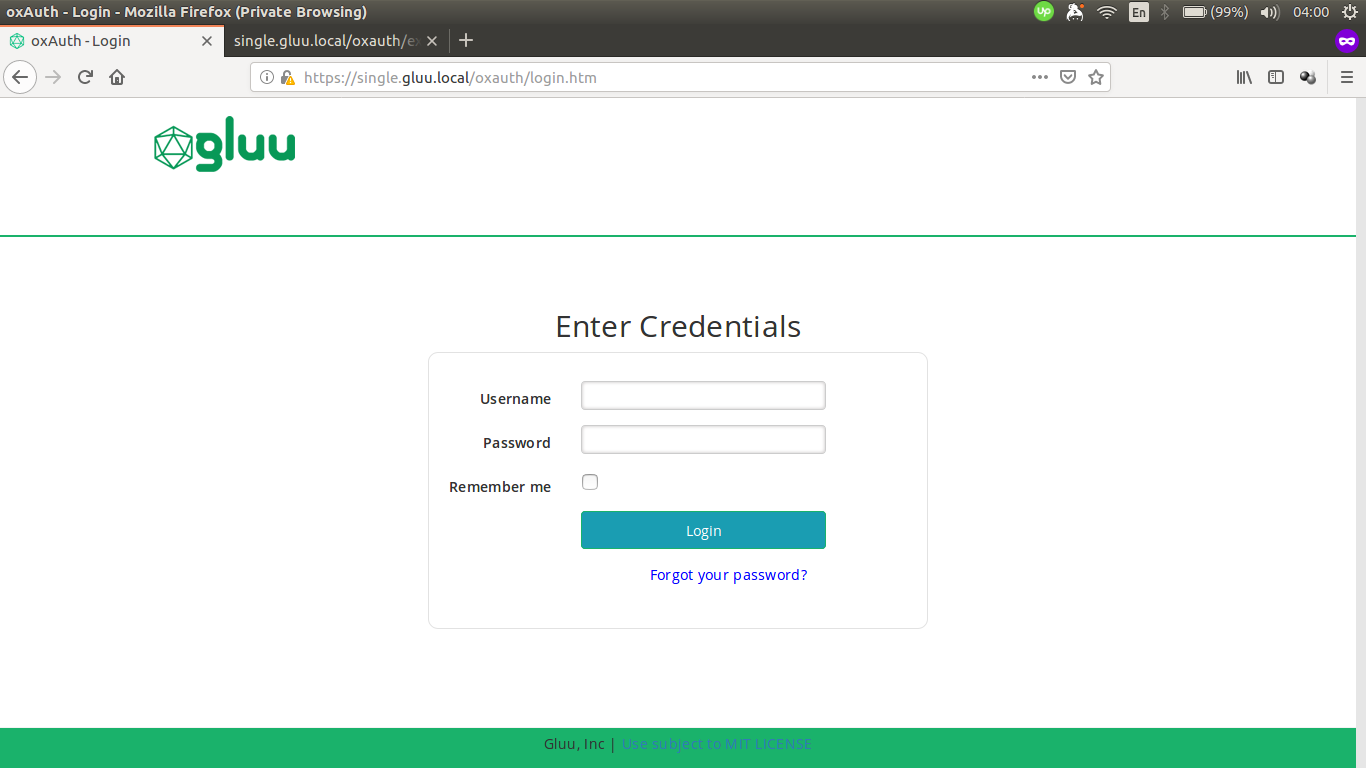
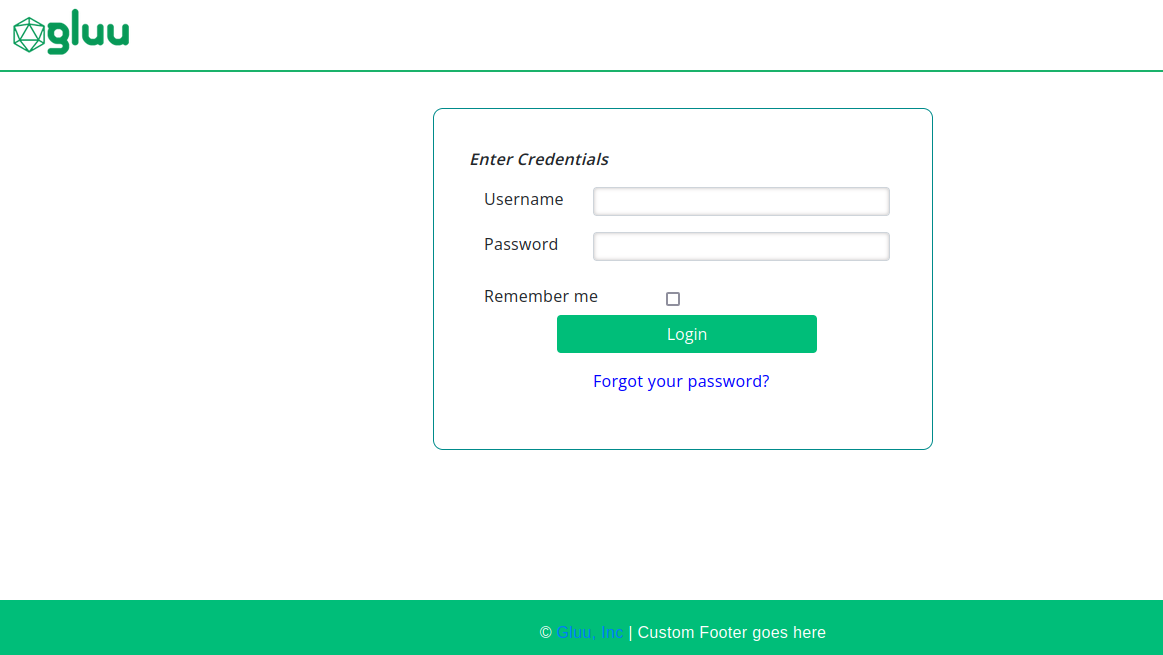
docs: update custom pages example for cloud-native

diff --git a/docs/source/operation/custom-design.md b/docs/source/operation/custom-design.md
@@ -238,64 +238,116 @@ cp /opt/jetty-9.3/temp/jetty-localhost-8081-oxauth.war-_oxauth-any-9071517269463
 
 This guide will show how to customize HTML pages and CSS in oxAuth for Gluu Server cloud native edition.
 
-Here's the screenshot of the default oxAuth login page.
+As an example, we're going to:
 
-![Screenshot](../img/kubernetes/oxauth-default-login.png)
+1. add text to the top of the login form (and apply styling)
+1. add text in the footer
 
-As an example, add text to the top of the form and change the color of the button by following these steps:
+### Preparing custom files for oxAuth
+
+!!! Note
+
+    The pod namespace and name is set to `gluu` and `oxauth` respectively.
+
+1.  Locate the directory contains exploded oxAuth WAR
+
+    ```sh
+    kubectl -n gluu exec oxauth -- ls /opt/jetty/temp
+    ```
+
+    Output example:
+
+    ```
+    jetty-0_0_0_0-8080-oxauth_war-_oxauth-any-6467019887303284828
+    ```
+
+1.  Get the `login.xhtml` from oxAuth pod:
+
+    ```sh
+    kubectl -n gluu cp oxauth:/opt/jetty/temp/jetty-0_0_0_0-8080-oxauth_war-_oxauth-any-6467019887303284828/webapp/login.xhtml ./login.xhtml
+    ```
+
+    Modify the file locally:
+
+    ```html
+    <h:form id="loginForm" style="padding:30px;">
+        <!-- customization -->
+        <div class="row"><p id="creds-title">Enter Credentials</p></div>
+        <!-- end of customization -->
+        <div class="row">
+            <div class="col-sm-3 col-md-3">
+                <h:outputText value="#{msgs['login.username']}" />
+            </div>
+    ```
+
+1.  Get the `login-template.xhtml` from oxAuth pod:
+
+    ```sh
+    kubectl -n gluu cp oxauth:/opt/jetty/temp/jetty-0_0_0_0-8080-oxauth_war-_oxauth-any-6467019887303284828/webapp/WEB-INF/incl/layout/login-template.xhtml ./login-template.xhtml
+    ```
+
+    Modify the file locally:
+
+    ```html
+    <h:head>
+        <link type="text/css" rel="stylesheet" href="https://fonts.googleapis.com/css?family=Open+Sans:300,400,600" />
+        <!-- customization -->
+        <link rel="stylesheet" href="/oxauth/ext/resources/stylesheet/custom.css" />
+        <!-- end of customization -->
+    </h:head>
+
+    <footer class="footer" id="appFooter">
+        <div class="row" style="margin-top: 20px;">
+            <div class="col-sm-6 centered" style="text-align: center;">
+                <p class="centered">
+                    &copy; <a target="_blank" href="https://github.com/GluuFederation/oxAuth/blob/master/LICENSE">
+                        <h:outputText value="#{msgs['common.gluuInc']}" escape="false" />
+                    </a> | <a target="_blank" escape="false">Custom Footer goes here</a>
+                </p>
+            </div>
+        </div>
+    </footer>
+    ```
+
+1.  Copy the following text and save it as `custom.css`:
+
+    ```css
+    #creds-title {
+        font-style: italic;
+        font-weight: bolder;
+    }
+    ```
+
+1.  Use `configmaps` or `jackrabbit` to upload customization.
 
 === "ConfigMaps"
 
-    !!! Note
-
-        The pod namespace and name is set to `gluu` and `oxauth` respectively.
-
-    1.  Locate the directory contains exploded oxAuth WAR
-
-        ```sh
-        kubectl -n gluu exec oxauth -- ls /opt/jetty/temp
-        ```
-
-        Output example:
-
-        ```
-        jetty-0_0_0_0-8080-oxauth_war-_oxauth-any-6467019887303284828
-        ```
-
-    1.  Get the `login.xhtml` from oxAuth pod:
-
-        ```sh
-        kubectl -n gluu cp oxauth:/opt/jetty/temp/jetty-0_0_0_0-8080-oxauth_war-_oxauth-any-6467019887303284828/webapp/login.xhtml ./login.xhtml
-        ```
-
-    1.  Copy the following text and save it as `./custom.css`:
-
-        ```css
-        #loginForm .btn-primary {
-            background: #1a9db2
-        }
-        ```
-
-    1.  Create a config file to store the content of `login.xhtml` and `custom.css`.
+    1.  Create a config file to store the content of modified `login.xhtml`, `login-template.xhtml`, and `custom.css`.
 
         ```sh
         kubectl -n gluu create cm oxauth-custom-html --from-file=login.xhtml
+        kubectl -n gluu create cm oxauth-custom-layout-html --from-file=login-template.xhtml
         kubectl -n gluu create cm oxauth-custom-css --from-file=custom.css
         ```
 
-    1.  Mount file in your values.yaml under `oxauth.volumes` and `oxauth.volumeMounts`:
+    1.  Mount file in your `values.yaml` under `oxauth.volumes` and `oxauth.volumeMounts`:
 
         ```yaml
         oxauth:
            volumeMounts:
              - name: oxauth-pages-volume
                mountPath: /opt/gluu/jetty/oxauth/custom/pages # login.xthml will be mounted under this directory
+             - name: oxauth-layout-volume
+               mountPath: /opt/gluu/jetty/oxauth/custom/pages/WEB-INF/incl/layout # login-template.xthml will be mounted under this directory
              - name: oxauth-static-volume
-               mountPath: /opt/gluu/jetty/oxauth/custom/static # custom.css will be mounted under this directory
+               mountPath: /opt/gluu/jetty/oxauth/custom/static/stylesheet # custom.css will be mounted under this directory
            volumes:
              - name: oxauth-pages-volume
                configMap:
                  name: oxauth-custom-html
+             - name: oxauth-layout-volume
+               configMap:
+                 name: oxauth-custom-layout-html
              - name: oxauth-static-volume
                configMap:
                  name: oxauth-custom-css
@@ -311,17 +363,15 @@ As an example, add text to the top of the form and change the color of the butto
 
     1. Connect to your [Jackrabbit](../installation-guide/install-kubernetes.md#working-with-jackrabbit)
 
-    1. After connecting to  Jackrabbit create  directories `/opt/gluu/jetty/identity/custom/pages` and `/opt/gluu/jetty/identity/custom/static`.
+    1. After connecting to  Jackrabbit create the following directories: `opt/gluu/jetty/oxauth/custom/pages/WEB-INF/incl/layout` and `opt/gluu/jetty/oxauth/custom/static/stylesheet`.
 
-    1. Place the following `custom.css` in `/opt/gluu/jetty/identity/custom/static`.
+    1. Put `login.xhtml` under `opt/gluu/jetty/oxauth/custom/pages` directory.
 
-        ```css
-        .lockscreen-wrapper .btn-primary {
-            background-color: #b79933 !important;
-        }
-        ```
+    1. Put `login-template.xhtml` under `opt/gluu/jetty/oxauth/custom/pages/WEB-INF/incl/layout` directory
 
-    1. Place a custom `login.xhtml` which you may find in `opt/gluu/jetty/oxauth/webapps/oxauth/login.xhtml` inside your oxauth pod  at `/opt/gluu/jetty/identity/custom/pages` in Jackrabbit.
+    1. Put `custom.css` under `opt/gluu/jetty/oxauth/custom/static/stylesheet` directory.
+
+    1. Custom files will be pulled by oxAuth pod after few minutes.
 
 Here's the screenshot of customized oxAuth login page.
 
@@ -331,67 +381,70 @@ Here's the screenshot of customized oxAuth login page.
 
 This guide will show examples of how to customize HTML pages and CSS in oxTrust for Gluu Server cloud native edition.
 
-Here's the screenshot of default oxTrust logout page.
+As an example, we're going to add text to the logout form.
 
-![Screenshot](../img/kubernetes/oxtrust-default-logout.png)
+### Preparing custom files for oxTrust
 
-As an example, add text to the top of the form and change the color of the button by following these steps:
+!!! Note
+
+    The pod namespace and name is set to `gluu` and `oxtrust` respectively.
+
+1.  Locate the directory contains exploded oxTrust WAR
+
+    ```sh
+    kubectl -n gluu exec oxtrust -- ls /opt/jetty/temp
+    ```
+
+    Output example:
+
+    ```
+    jetty-0_0_0_0-8080-identity_war-_identity-any-6467019887303284828
+    ```
+
+1.  Get the `finishlogout.xhtml` from oxTrust pod:
+
+    ```sh
+    kubectl -n gluu cp oxtrust:/opt/jetty/temp/jetty-0_0_0_0-8080-identity_war-_identity-any-6467019887303284828/webapp/finishlogout.xhtml ./finishlogout.xhtml
+    ```
+
+    Modify the file locally:
+
+    ```html
+    <ui:define name="body">
+        <div class="lockscreen-wrapper" style="text-align: center;">
+            <div class="lockscreen-name"
+                style="text-align: center; font-size: 1.2em !important; margin-top: 10px; margin-bottom: 10px;">
+                Thank you for using <b>GLUU</b>.
+            </div>
+            <a class="btn btn-block btn-primary" href="login.htm" style="width: 50%;">#{msgs['finishLogout.signIn']}</a>
+            <!-- customization -->
+            <div style="font-style: italic; font-weight: bolder; margin-top: 20px;">See your later!!</div>
+            <!-- end of customization -->
+        </div>
+    </ui:define>
+    ```
+
+1. Use `configmaps` or `jackrabbit` to upload customization.
 
 === "ConfigMaps"
 
-    !!! Note
-
-        The pod namespace and name is set to `gluu` and `oxtrust` respectively.
-
-    1.  Locate the directory contains exploded oxTrust WAR
-
-        ```sh
-        kubectl -n gluu exec oxtrust -- ls /opt/jetty/temp
-        ```
-
-        Output example:
-
-        ```
-        jetty-0_0_0_0-8080-identity_war-_identity-any-6467019887303284828
-        ```
-
-    1.  Get the `finishlogout.xhtml` from oxTrust pod:
-
-        ```sh
-        kubectl -n gluu cp oxtrust:/opt/jetty/temp/jetty-0_0_0_0-8080-identity_war-_identity-any-6467019887303284828/webapp/finishlogout.xhtml ./finishlogout.xhtml
-        ```
-
-    1.  Copy the following text and save it as `./custom.css`:
-
-        ```css
-        .lockscreen-wrapper .btn-primary {
-            background-color: #b79933 !important;
-        }
-        ```
-
-    1.  Create a config file to store the contents of `finishlogout.xhtml` and `custom.css`.
+    1.  Create a config file to store the contents of `finishlogout.xhtml`.
 
         ```sh
         kubectl -n gluu create cm oxtrust-custom-html --from-file=finishlogout.xhtml
-        kubectl -n gluu create cm oxtrust-custom-css --from-file=custom.css
         ```
 
-    1.  Mount file in your values.yaml under `oxtrust.volumes` and `oxtrust.volumeMounts`:
+    1.  Mount file in your `values.yaml` under `oxtrust.volumes` and `oxtrust.volumeMounts`:
 
         ```yaml
         oxtrust:
           volumeMounts:
             - name: oxtrust-pages-volume
               mountPath: /opt/gluu/jetty/identity/custom/pages # finishlogout.xthml will be mounted under this directory
-            - name: oxtrust-static-volume
-              mountPath: /opt/gluu/jetty/identity/custom/static # custom.css will be mounted under this directory
           volumes:
             - name: oxtrust-pages-volume
               configMap:
                 name: oxtrust-custom-html
-            - name: oxtrust-static-volume
-              configMap:
-                name: oxtrust-custom-css
         ```
 
     1.  Run helm install or helm upgrade if Gluu has been already installed.
@@ -404,17 +457,11 @@ As an example, add text to the top of the form and change the color of the butto
 
     1. Connect to your [Jackrabbit](../installation-guide/install-kubernetes.md#working-with-jackrabbit)
 
-    1. After connecting to  Jackrabbit create  directories `/opt/gluu/jetty/identity/custom/pages` and `/opt/gluu/jetty/identity/custom/static`.
+    1. After connecting to  Jackrabbit create the following directories: `opt/gluu/jetty/identity/custom/pages`.
 
-    1. Place the following `custom.css` in `/opt/gluu/jetty/identity/custom/static`.
+    1. Put `finishlogout.xhtml` under `opt/gluu/jetty/identity/custom/pages` directory.
 
-        ```css
-        .lockscreen-wrapper .btn-primary {
-            background-color: #b79933 !important;
-        }
-        ```
-
-    1. Place a custom `login.xhtml` which you may find in `opt/gluu/jetty/oxauth/webapps/oxauth/login.xhtml` inside your oxauth pod  at `/opt/gluu/jetty/identity/custom/pages` in Jackrabbit.
+    1. Custom files will be pulled by oxTrust pod after few minutes.
 
 Here's the screenshot of customized oxTrust logout page.
 
